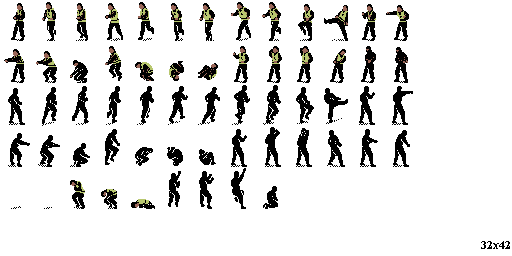
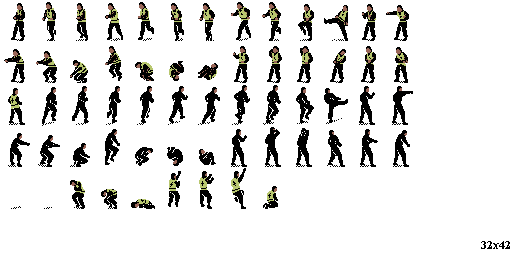
Some stuff

diff --git a/Game/Entities/combatant.cpp b/Game/Entities/combatant.cpp
@@ -14,6 +14,8 @@ Combatant::Combatant()
 	CurrentState = CombatantState::STANDING;
 	CurrentStateTime = 0;
 
+	magicrampindex = 0;
+	magicrampdelay = 0;
 }
 
 Combatant::~Combatant()
@@ -39,11 +41,99 @@ void Combatant::Save(SQLiteDB* Database, int GameID, int RoomID)
 {
 }
 
-void OnUpdate()
+void Combatant::OnUpdate()
 {
-
+	OnUpdateMagic();
 }
 
-void OnRender()
+void Combatant::OnRender()
 {
+	int framenumber = 0;
+	int flipflag = 0;
+
+	// TODO: Get frame number
+	switch( CurrentState )
+	{
+		case CombatantState::STANDING:
+			break;
+		case CombatantState::WALKING:
+			break;
+		case CombatantState::SHORTJUMP:
+			break;
+		case CombatantState::LONGJUMP:
+			break;
+		case CombatantState::CLIMBINGUP:
+			break;
+		case CombatantState::CLIMBINGDOWN:
+			break;
+		case CombatantState::JAB:
+			break;
+		case CombatantState::SLASH:
+			break;
+		case CombatantState::LUNGE:
+			break;
+		case CombatantState::KICK:
+			break;
+		case CombatantState::BLOCK:
+			break;
+		case CombatantState::PICKUP:
+			break;
+		case CombatantState::WEAPONCHANGE_IN:
+			break;
+		case CombatantState::WEAPONCHANGE_OUT:
+			break;
+		case CombatantState::KNEELING:
+			break;
+		case CombatantState::SINKING:
+			break;
+		default:
+			break;
+	}
+
+	// Flip
+	if( CurrentDirection == GameDirection::EAST || CurrentDirection == GameDirection::WEST )
+	{
+		flipflag = ALLEGRO_FLIP_HORIZONTAL;
+	}
+
+	// Point to other direction
+	if( framenumber < 26 && (CurrentDirection == GameDirection::EAST || CurrentDirection == GameDirection::SOUTH) )
+	{
+		framenumber += 26;
+	}
+
+	// Render
+	SkinGraphic->DrawPartial( (framenumber % 13) * 32, (framenumber / 13) * 42, 32, 42, ScreenX, ScreenY, flipflag );
+}
+
+void Combatant::OnUpdateMagic()
+{
+	if( CollectedMagicRemaining > 0 )
+	{
+		CollectedMagicRemaining--;
+		if( CollectedMagicRemaining == 0 )
+		{
+			CollectedMagic = 0;
+			magicrampindex = 0;
+			magicrampdelay = 0;
+			for( int i = 0; i < 16; i++ )
+			{
+				ColourRemap[i] = i;
+			}
+		} else {
+
+			magicrampdelay = (magicrampdelay + 1) % 3;
+			if( magicrampdelay == 0 )
+			{
+				magicrampindex = (magicrampindex + 1) % 8;
+				for( int i = 0; i < 16; i++ )
+				{
+					if( i != 10 )
+					{
+						ColourRemap[i] = Palette::RampBlue[magicrampindex];
+					}
+				}
+			}
+		}
+	}
 }

diff --git a/Game/Paletted/palette.cpp b/Game/Paletted/palette.cpp
@@ -13,6 +13,7 @@ const int Palette::RampRed[8] = { 9, 2, 8, 10, 7, 10, 8, 2 };
 const int Palette::RampRedDark[8] = { 0, 9, 2, 8, 10, 8, 2, 9 };
 const int Palette::RampGray[8] = { 0, 11, 12, 15, 1, 15, 12, 11 };
 const int Palette::RampGrayDark[8] = { 0, 0, 11, 12, 15, 12, 11, 0 };
+const int Palette::RampGreen[8] = { 0, 11, 5, 13, 7, 13, 5, 11 };
 
 
 void Palette::InitPalette()

diff --git a/Game/Paletted/palette.h b/Game/Paletted/palette.h
@@ -39,6 +39,7 @@ class Palette
     static const int RampRedDark[8];
     static const int RampGray[8];
     static const int RampGrayDark[8];
+		static const int RampGreen[8];
 
     static void InitPalette();
     static void ApplyColourOverrides(ALLEGRO_BITMAP* Image);

diff --git a/Game/Entities/combatant.h b/Game/Entities/combatant.h
@@ -41,6 +41,12 @@ class CombatantRenderStyle
 class Combatant
 {
 
+	private:
+		int magicrampindex;
+		int magicrampdelay;
+
+		void OnUpdateMagic();
+
   public:
     std::string SkinFilename;
 		PalettedBitmap* SkinGraphic;
